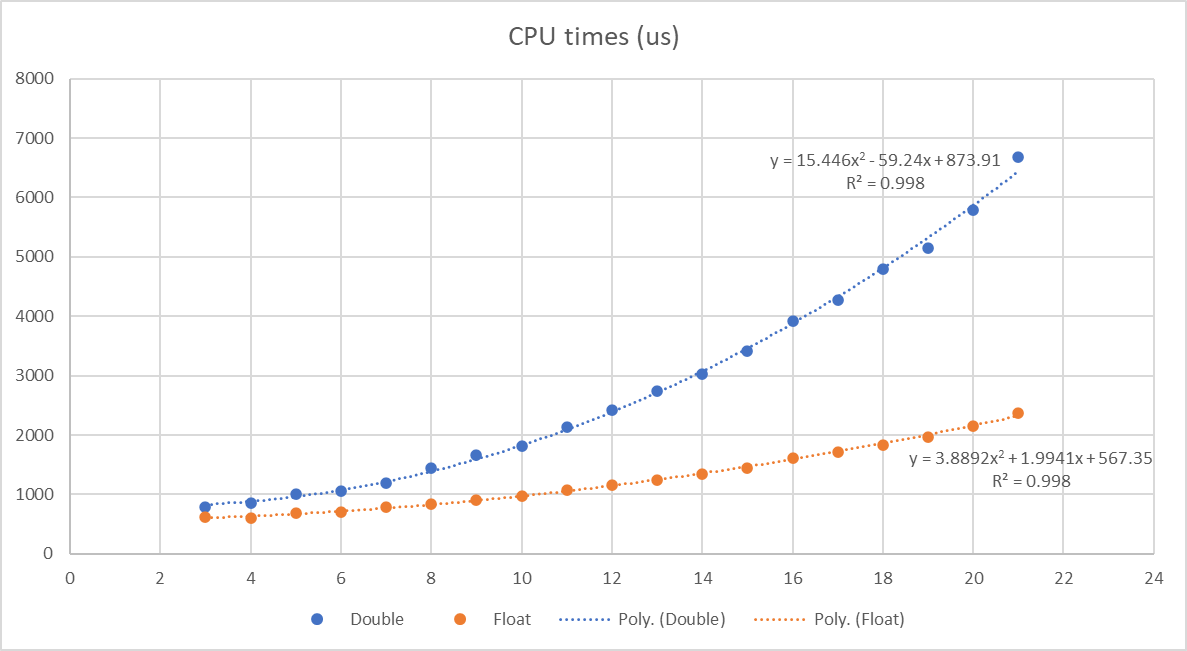
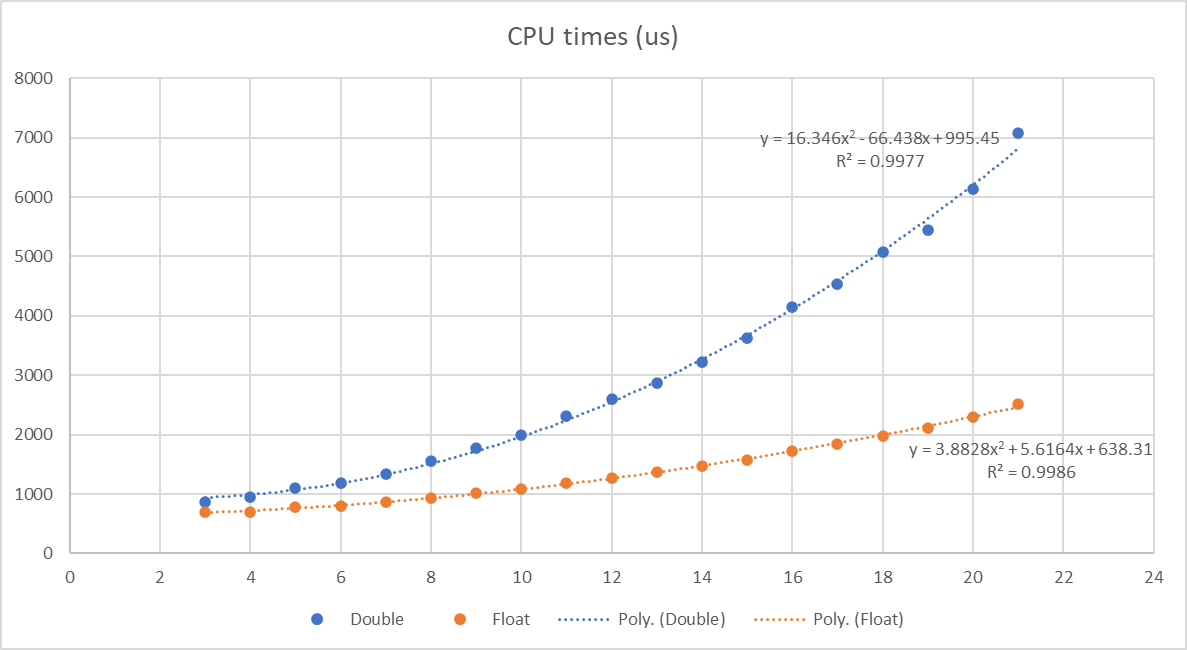
Update README.md

diff --git a/README.md b/README.md
@@ -226,27 +226,27 @@ Please note that the SD card write only works with the dual core version as the 
 
 The algorithm used for calculating the necessary data for stroke detection can become rather CPU hungry. In a nutshell, the issue is that the Theil-Sen Quadratic Regression is O(N&#178;), which means that as the size of the `IMPULSE_DATA_ARRAY_LENGTH` increases, the time required to complete the calculations increases exponentially (for more information, please see [this explanation](https://github.com/laberning/openrowingmonitor/blob/v1beta/docs/physics_openrowingmonitor.md#use-of-quadratic-theil-senn-regression-for-determining-%CE%B1-and-%CF%89-based-on-time-and-%CE%B8)).
 
-As part of the version 5 update there has been significant work done to improve the execution time of the main loop and to better support higher value of `IMPULSE_DATA_ARRAY_LENGTH`. Through various optimizations in the algorithm there has been an approx. 20-30% improvement on higher `IMPULSE_DATA_ARRAY_LENGTH` in this area leading when using double types to for instance an execution time of 3.4ms of a 15 data point set (compared to the original 7ms) and for float type for higher data point length over 30-40% (e.g. execution time is 1.4ms for a 15 data point set compared to the original 4.8).
+As part of the version 5 update there has been significant work done to improve the execution time of the main loop and to better support higher value of `IMPULSE_DATA_ARRAY_LENGTH`. Through various optimizations in the algorithm there has been an approx. 20-30% improvement on higher `IMPULSE_DATA_ARRAY_LENGTH` in this area leading when using double types to for instance an execution time of 3.4ms of a 15 data point set (compared to the original 7ms) and for float type for higher data point length over 30-40% (e.g. execution time is 1.4ms for a 15 data point set compared to the original 4.8). In version 6 in order to make the algorithm more resilient to outlier a move from the OLS approach to determine delta time slopes has been made to a Theil-Sen Linear Regression model. This has approximately 5-10% execution time performance overhead compared to v5. But this has been deemed to be acceptable considering the accuracy improvement for the stroke detection.
 
 The improvements are even more noticeable on the maximum execution times (that was achieved through the implementation of proper offloading of peripheral calculations to the second core of the ESP32). The most relevant improvement is that these maximum execution times are within 1-1.5ms (compared to the previous 3-4ms) that avoids potential bug with more data points (e.g. metric calculation is not able to complete before a new data point comes in)
 
-I conducted some high-level tests and measured the execution times, which are shown in the table below:
+I conducted some high-level tests and measured the execution times, which are shown in the table below for version 6:
 
 |IMPULSE_DATA_ARRAY_LENGTH|Execution time (us)|
 |:-----------------------:|:-----------------:|
-|18                       |4792               |
-|15                       |3407               |
-|12                       |2424               |
-|9                        |1663               |
-|8                        |1446               |
-|7                        |1192               |
-|6                        |1057               |
-|5                        |1005               |
-|3                        |782                |
+|18                       |5074               |
+|15                       |3631               |
+|12                       |2598               |
+|9                        |1777               |
+|8                        |1555               |
+|7                        |1343               |
+|6                        |1188               |
+|5                        |1104               |
+|3                        |871                |
 
-The above table shows that with an `IMPULSE_DATA_ARRAY_LENGTH` size of 18, the total execution time of the calculations on every impulse is almost 4.7ms if double precision is used. This could cause issues, for instance, when a new impulse comes in before the previous calculation is finished. Due to this, currently, the compiler does not allow an `IMPULSE_DATA_ARRAY_LENGTH` size higher than 15 (and double precision) and gives a warning at 14.
+The above table shows that with an `IMPULSE_DATA_ARRAY_LENGTH` size of 18, the total execution time of the calculations on every impulse is around 5ms if double precision is used. This could cause issues, for instance, when a new impulse comes in before the previous calculation is finished. Due to this, currently, the compiler does not allow an `IMPULSE_DATA_ARRAY_LENGTH` size higher than 15 (and double precision) and gives a warning at 14.
 
-As an example, on my setup, I use 3 impulses per rotation. Based on my experience, the delta times cannot dip below 10ms. So with an `IMPULSE_DATA_ARRAY_LENGTH` size of 7 (execution time with double is approximately 1.2ms), this should be pretty much fine.
+As an example, on my setup, I use 3 impulses per rotation. Based on my experience, the delta times cannot dip below 10ms. So with an `IMPULSE_DATA_ARRAY_LENGTH` size of 7 (execution time with double is approximately 1.3ms), this should be pretty much fine.
 
 On other machine where 6 impulse per rotation happens, thanks to the more efficient algorithm, for an `IMPULSE_DATA_ARRAY_LENGTH` size of 12 with double precision can be used safely as the delta times should not dip below 3.3ms, giving sufficient buffer time for BLE updates to run.
 _Note: on a dual core MCU frequent BLE related tasks are offloaded to the second core, and the ISR and the algorithm - along with small one-off and less frequent tasks - run on the main core, so strictly speaking these functions should not interfere on a dual core ESP32._
@@ -255,17 +255,17 @@ If, for some reason, testing shows that a higher value for the `IMPULSE_DATA_ARR
 
 |IMPULSE_DATA_ARRAY_LENGTH|Execution time (us)|
 |:-----------------------:|:-----------------:|
-|18                       |1837               |
-|15                       |1453               |
-|12                       |1164               |
-|9                        |906                |
-|8                        |836                |
-|7                        |784                |
-|6                        |712                |
-|5                        |688                |
-|3                        |616                |
+|18                       |1977               |
+|15                       |1581               |
+|12                       |1275               |
+|9                        |1017               |
+|8                        |942                |
+|7                        |866                |
+|6                        |793                |
+|5                        |787                |
+|3                        |694                |
 
-Using float precision instead of double precision, of course, reduces the precision but shaves off the execution times significantly (notice the 4.8ms compared 1.8 for 18 data point). I have not run extensive testing on this, but for the limited simulations I run, this did not make a significant difference.
+Using float precision instead of double precision, of course, reduces the precision but shaves off the execution times significantly (notice the 4.8ms compared 1.9 for 18 data point). I have not run extensive testing on this, but for the limited simulations I run, this did not make a significant difference.
 
 The below picture shows that the blue chart cuts some corners but generally follows the same curve (which does not mean that in certain edge cases the reduced precision does not create errors).
 
